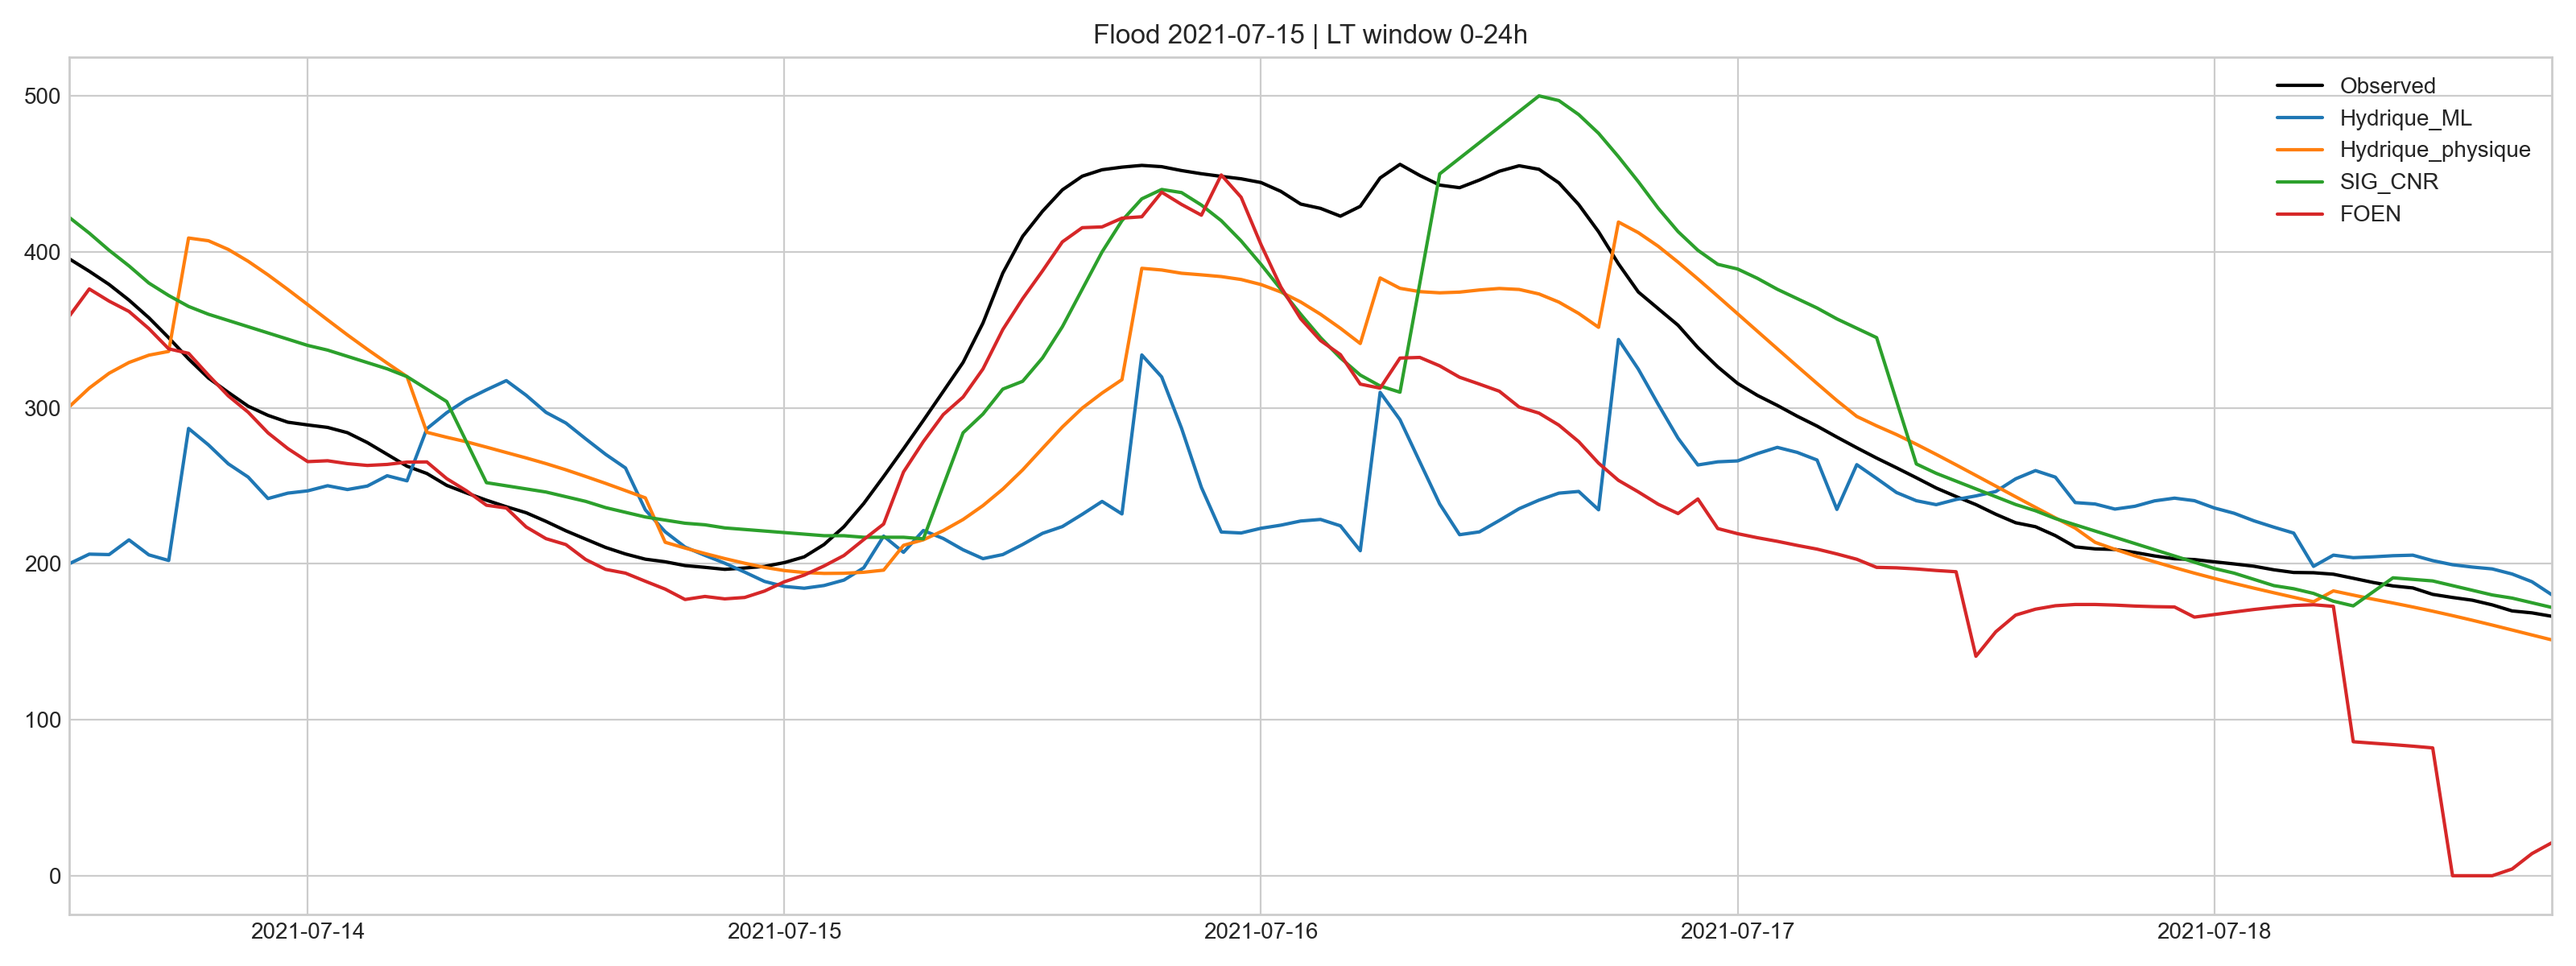
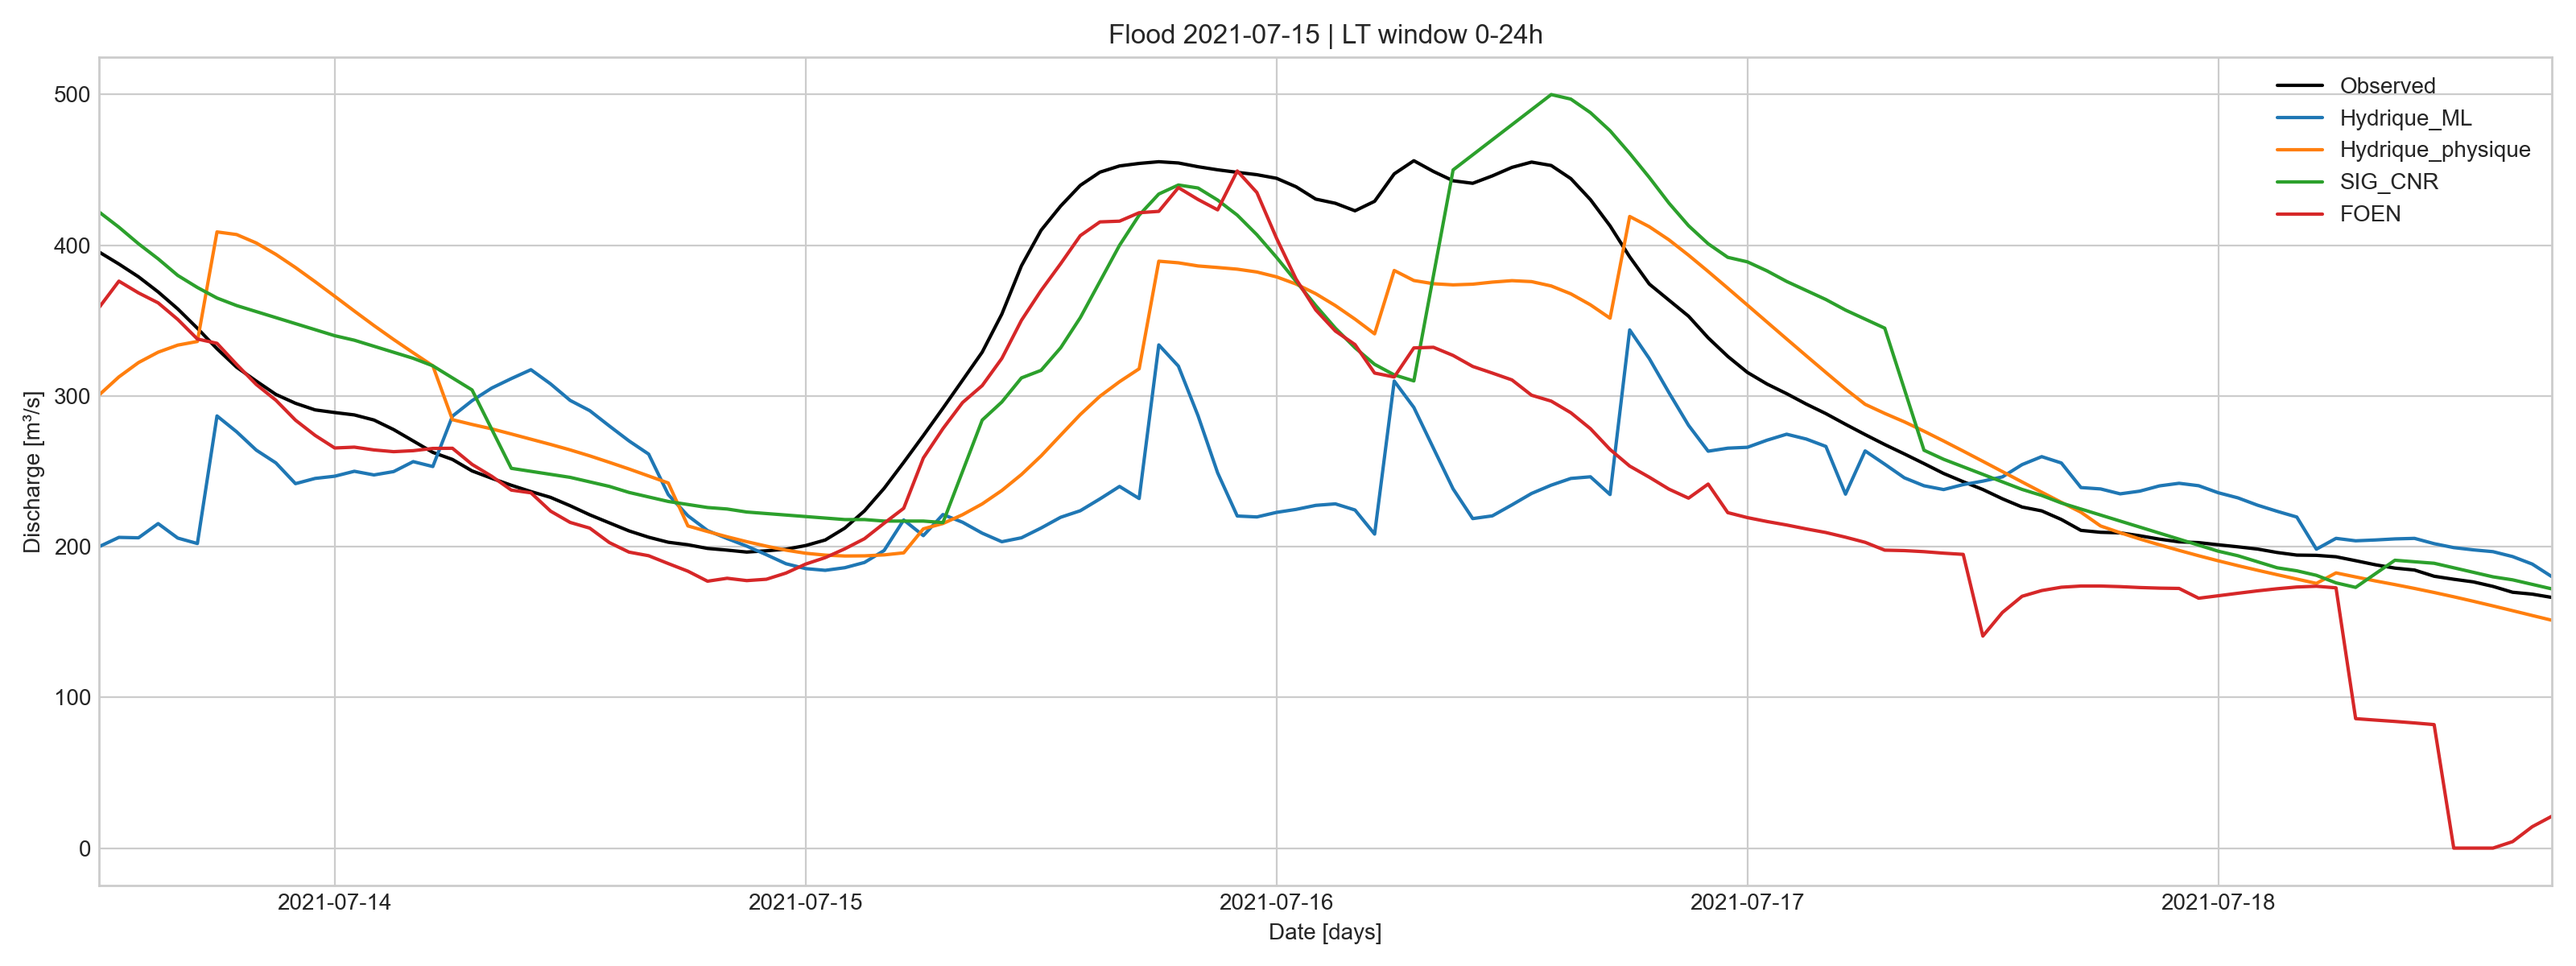
Ajouté titres aux axes des times series

diff --git a/notebooks/determinist_windows_LT.py b/notebooks/determinist_windows_LT.py
@@ -47,7 +47,7 @@ LEAD_WINDOWS = [
 ]
 
 LEAD_WINDOWS = [
-    (0,24)
+    (36,48)
 ]
 
 # ============================================================
@@ -550,6 +550,9 @@ for i, (start, end) in enumerate(events):
             f"Flood {start.strftime('%Y-%m-%d')} | "
             f"LT window {lt_start}-{lt_end}h"
         )
+
+        plt.xlabel("Date [days]")
+        plt.ylabel("Discharge [m³/s]")
 
         plt.xlim(start_win, end_win)
         plt.legend()
